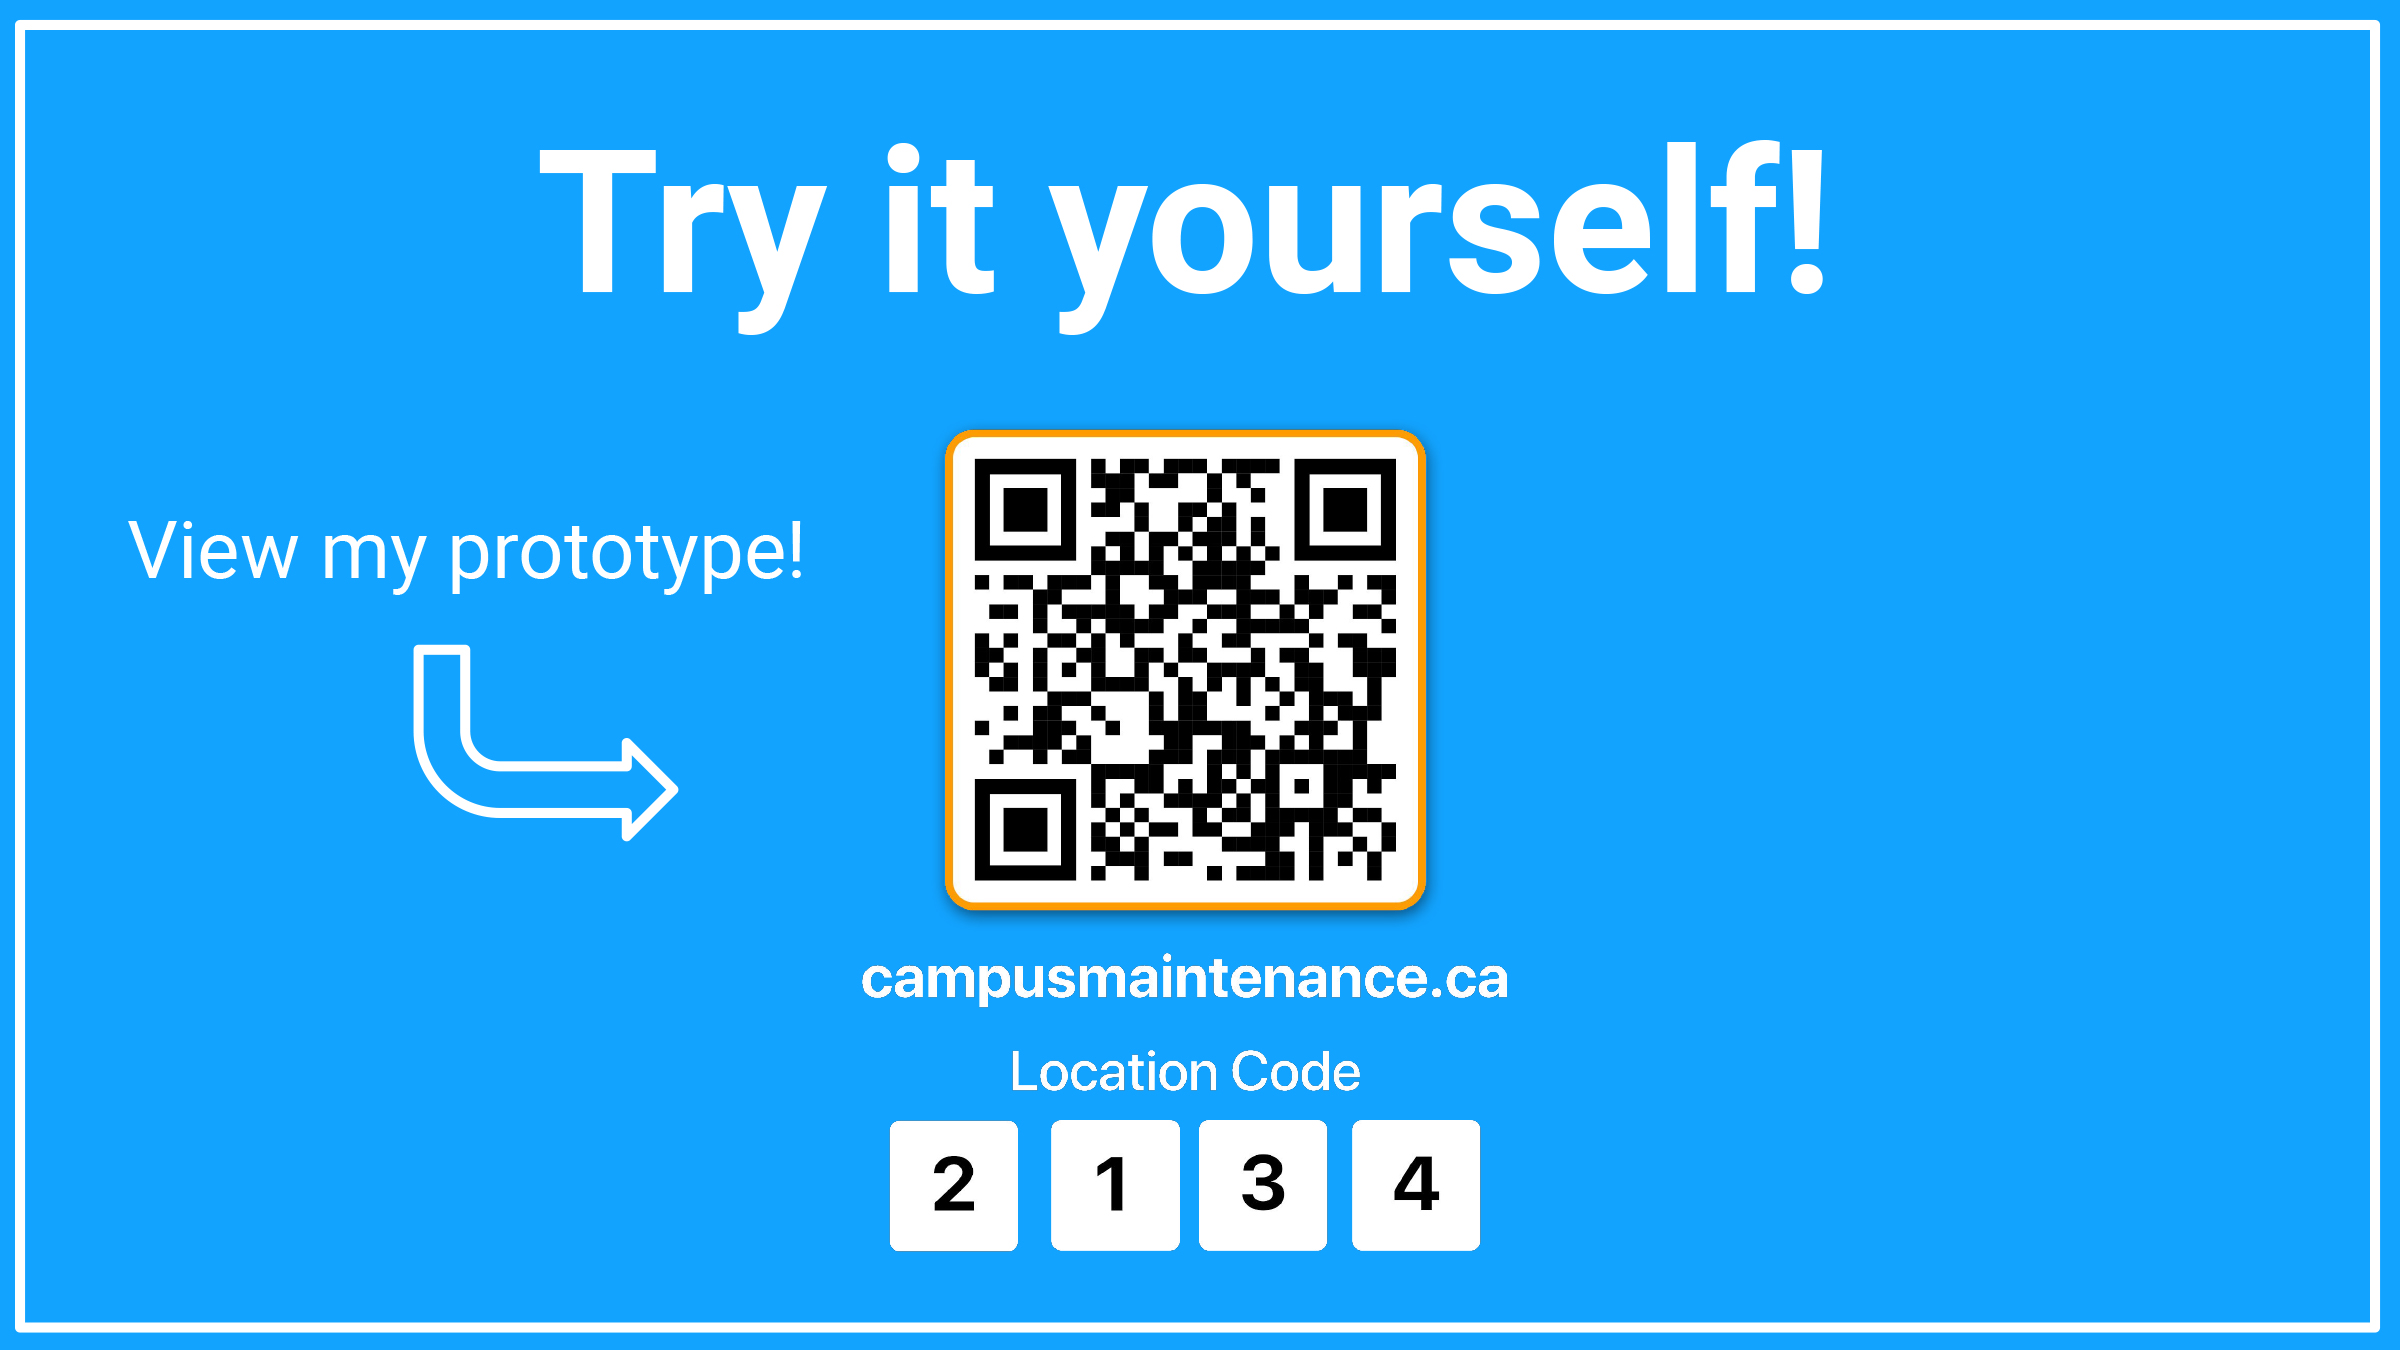
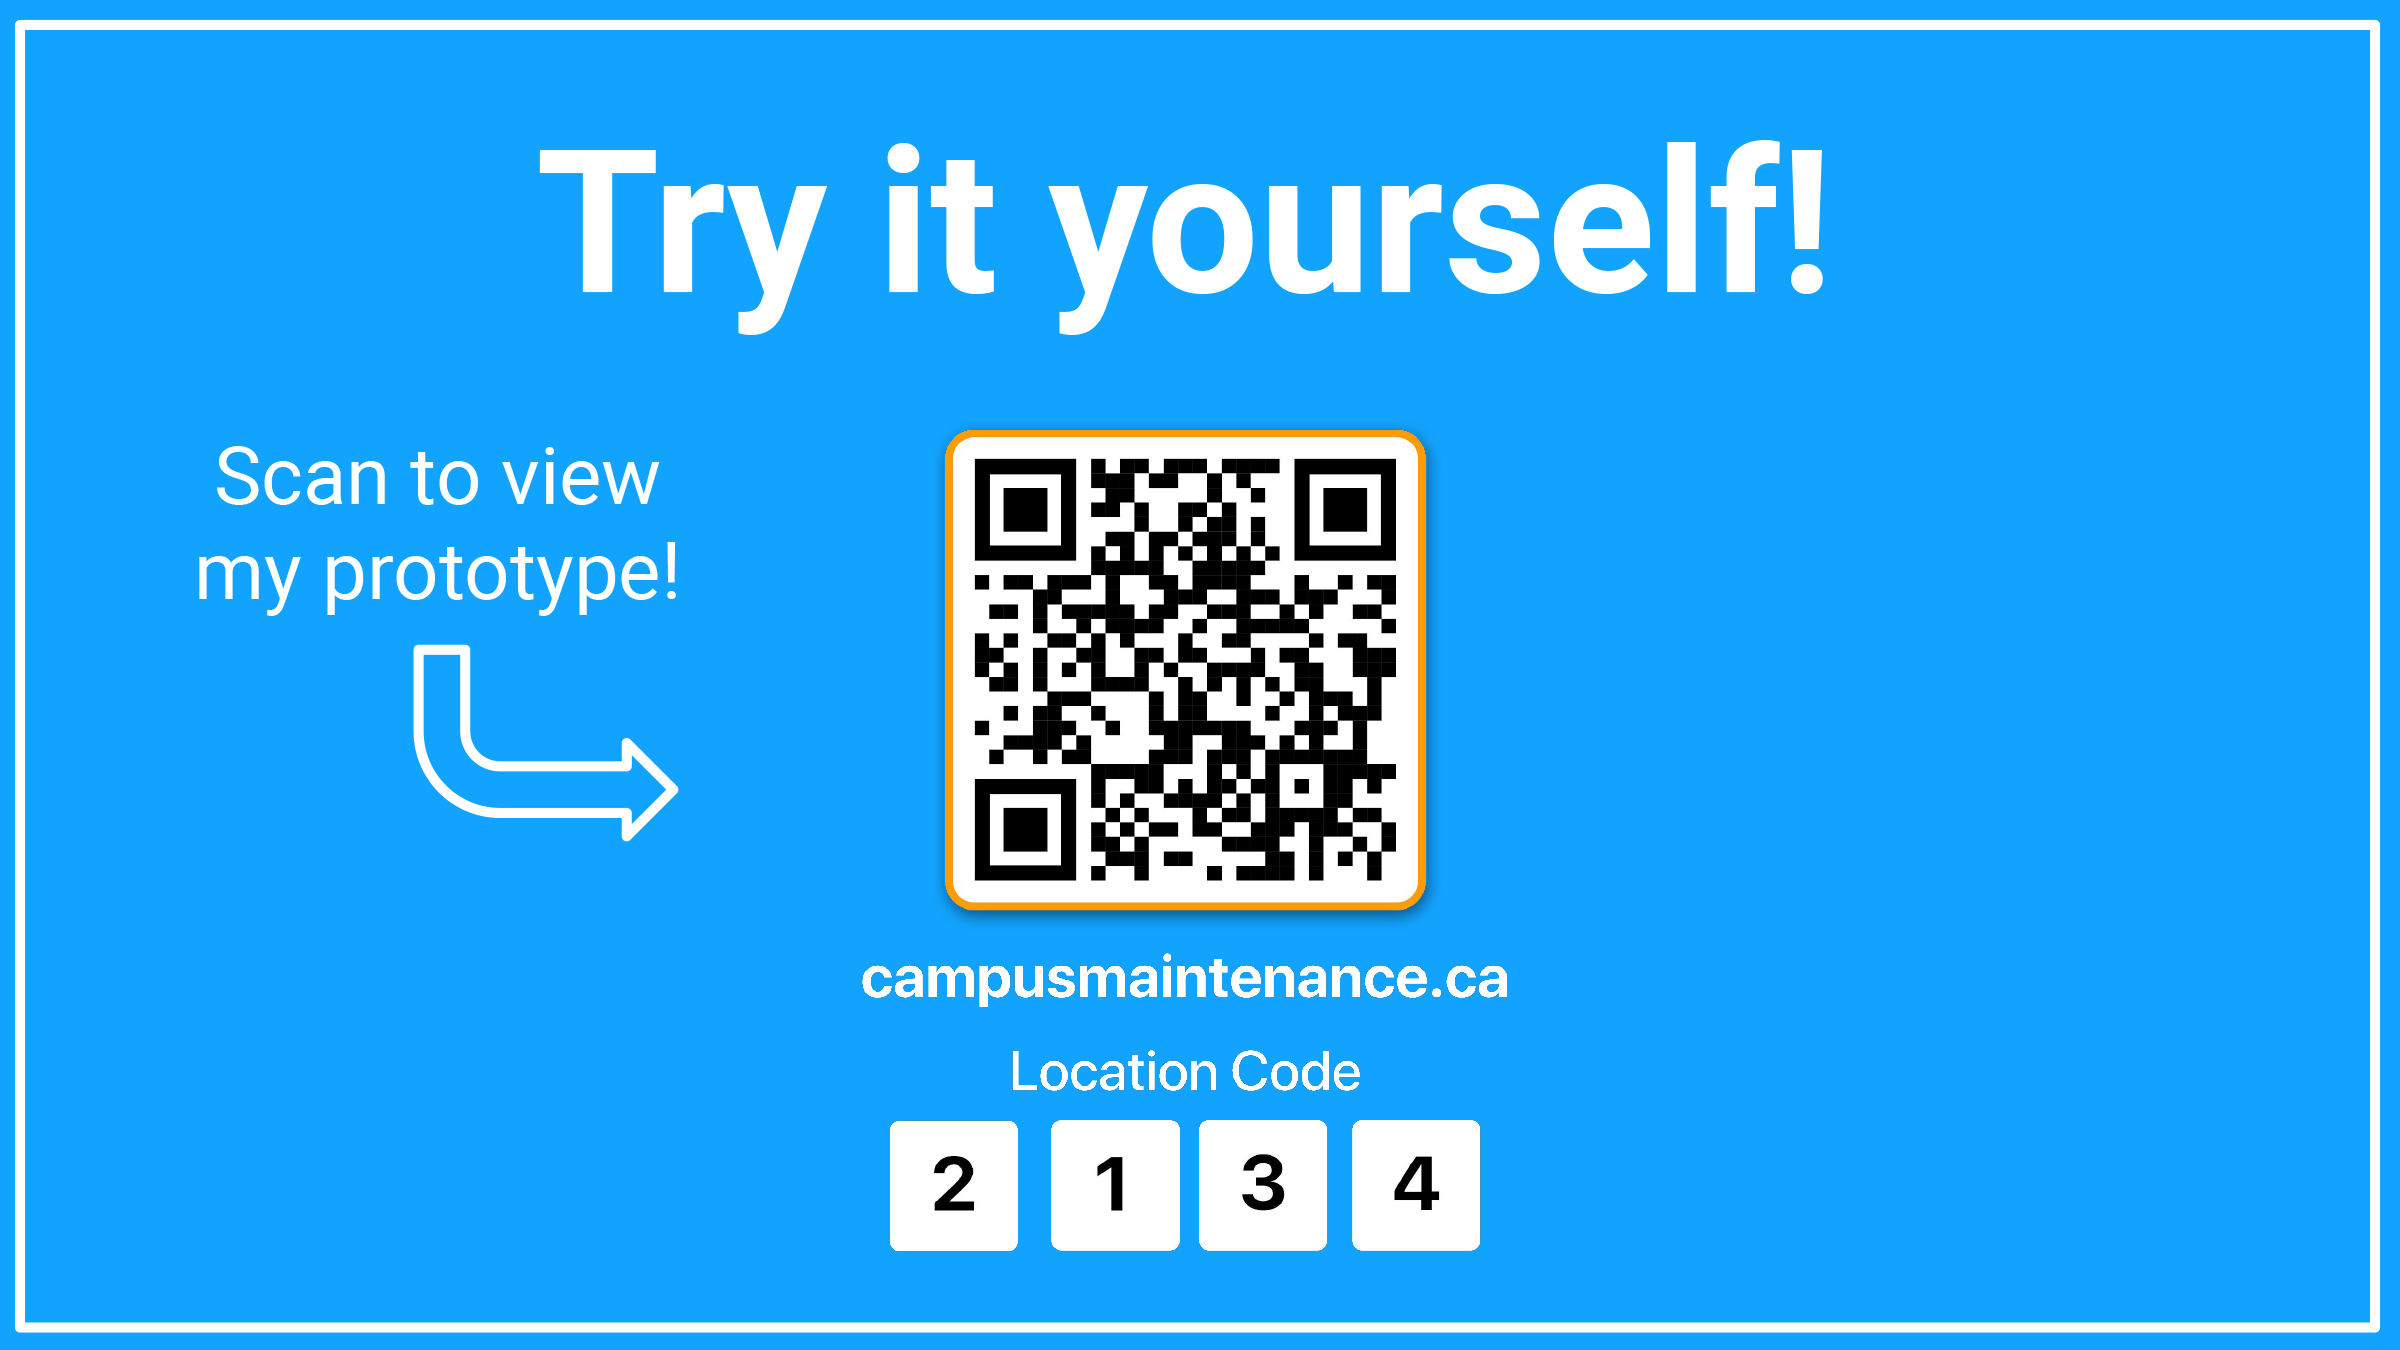
Prototype added 1

Changed region(s): [[0.0625, 0.3422, 0.3438, 0.4667]]

diff --git a/projects/designsprint/index.html b/projects/designsprint/index.html
@@ -78,6 +78,14 @@
 			
 		</div>
 	
+		<div class="projectblock2">
+			
+			<p>Below is a Google Design Sprint I completed on my own over 
+				the course of 3 days. I outline my process and the 
+				deliverable I created.</p>
+			
+		</div>
+		
 		<div id="designsprint">
 		
 			<img class="dsimg" src="designsprint1.jpg"
@@ -118,6 +126,13 @@
 			
 			<img class="dsimg" src="designsprint13.jpg"
 				 alt="Image1"/>
+			
+		</div>
+		
+		<div class="projectblock2">
+			
+			<p>To view my prototype scan the QR code above or visit 
+				<a href="https://campusmaintenance.ca/">campusmaintenance.ca</a></p>
 			
 		</div>
 		

diff --git a/projects/index.html b/projects/index.html
@@ -115,7 +115,7 @@
 			
 				<h2>Design Sprint</h2>
 		
-				<p>Insert Description</p>
+				<p>A Google Design Challenge and functional prototype.</p>
 			
 				<a href="designsprint/index.html">Learn More</a>
 				
